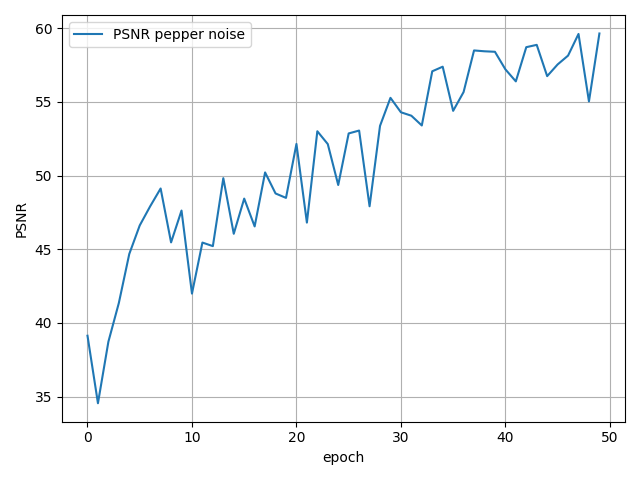
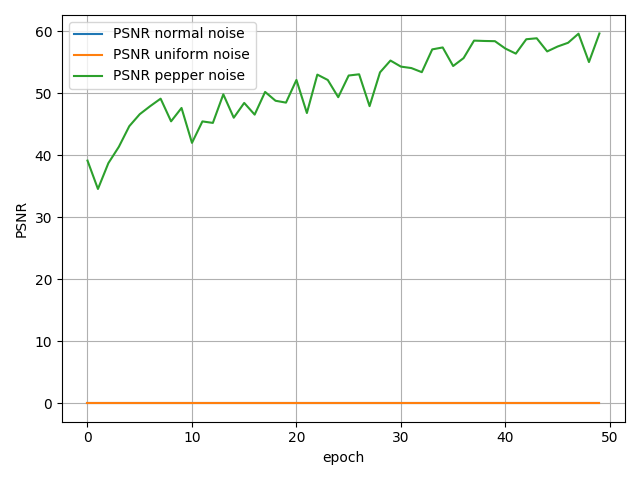
cleaned up code, switched to default normal noise

diff --git a/train.py b/train.py
@@ -47,7 +47,6 @@ def setup_gpus():
     return device_ids
 
 def psnr_of_batch(clean_imgs, denoised_imgs):
-    #clean_imgs = clean_imgs.data.cpu().numpy().astype(np.float32)
     clean_imgs = clean_imgs.data.numpy().astype(np.float32)
     denoised_imgs = denoised_imgs.data.cpu().numpy().astype(np.float32)
     batch_psnr = 0
@@ -66,26 +65,15 @@ def gen_noise(batch_size, noise_type):
         noise_levels = np.linspace(0,0.25, batch_size[0])
         for i, nl in enumerate(noise_levels):
             noise_mask = torch.FloatTensor(np.random.uniform(size=noise[0].shape) < nl )
-            #noise_mask = np.random.uniform(size=noise[0,0].shape) < nl 
-            #noise_mask = np.stack((noise_mask,noise_mask,noise_mask), axis=0)
             noise[i,:,:,:] = torch.FloatTensor(noise[0,:,:,:].shape).uniform_(0.0,1.0) * noise_mask
 
     elif noise_type == 'pepper':
         noise_levels = np.linspace(0,0.25, batch_size[0])
         for i, nl in enumerate(noise_levels):
-#            noise_salt = np.random.uniform(0.0,1.0, size=noise[0,0].shape)
-#            _, noise_salt = cv.threshold(noise_salt, (1-nl/2), 1.0, cv.THRESH_BINARY)
             noise_pepper = np.random.uniform(0.0,1.0, size=noise[0,0].shape)
             _, noise_pepper = cv.threshold(noise_pepper, (1-nl), -1.0, cv.THRESH_BINARY)
-#            salt_pepper = noise_salt + noise_pepper
 
-            #noise_salt = np.stack((noise_salt,noise_salt,noise_salt), axis=0)
-            #pepper_mask = np.random.uniform(size=noise_salt[0].shape) < 0.5 
-            #pepper_mask = np.stack((pepper_mask,pepper_mask,pepper_mask), axis=0)
-            #salt_pepper = noise_salt * pepper_mask
             noise[i,:,:,:] = torch.FloatTensor(noise_pepper)
-            #torch.FloatTensor(noise[0,:,:,:].shape).uniform_(0.0,1.0)
-            #_, noise[i,:,:,:] = cv.threshold(noise, (1-nl),1.0, cv.THRESH_BINARY)
 
     return noise
 
@@ -111,8 +99,7 @@ def main():
     noise_level = args.noise_level/255
     max_noise_level = 55/255
     #noise_types = np.array(['normal', 'uniform', 'pepper'])
-    #noise_types = np.array(['normal','uniform'])
-    noise_types = np.array(['pepper'])
+    noise_types = np.array(['normal'])
 
     # make sure data files exist
     assert os.path.exists(args.train_set), f'Cannot find training vectors file {args.train_set}'
@@ -174,11 +161,12 @@ def main():
     best_psnr_pepper = 0
     for epoch in range(args.epochs):
         print(f'Starting epoch {epoch+1} with learning rate {optimizer.param_groups[0]["lr"]}')
+
         model.train()
-        # iterate through batches of training examples
         epoch_train_loss = 0
         train_steps = 0
 
+        # iterate through batches of training examples
         for clean_imgs in tqdm(train_loader):
             model.zero_grad()
 
@@ -190,17 +178,8 @@ def main():
 
             noise_type = np.random.choice(noise_types)
             noise = gen_noise(clean_imgs.size(), noise_type)
-#            if noise_type == 'normal':
-#                for i, nl in enumerate(noise_levels):
-#                    noise[i,:,:,:] = torch.FloatTensor(noise[0,:,:,:].shape).normal_(mean=0, std=nl)
-#
-#            if noise_type == 'uniform':
-#                for i, nl in enumerate(noise_levels):
-#                    noise[i,:,:,:] = torch.FloatTensor(noise[0].shape).normal_(mean=0, std=nl)
-
 
             # pack input and target it into torch variable
-            #clean_imgs = Variable(data.cuda()) 
             noisy_imgs = Variable((clean_imgs + noise).cuda()) 
             noise = Variable(noise.cuda())
 
@@ -228,7 +207,6 @@ def main():
         epoch_psnr_pepper = 0
         num_pepper = 0
         val_steps = 0
-        #model.zero_grad()
         with torch.no_grad():
             for clean_imgs in tqdm(val_loader):
                 # generate additive white noise from gaussian distribution
@@ -241,7 +219,6 @@ def main():
 
 
                 # pack input and target it into torch variable
-                #clean_imgs = Variable(data.cuda()) 
                 noisy_imgs = Variable((clean_imgs + noise).cuda())
                 noise = Variable(noise.cuda())
 
@@ -279,6 +256,7 @@ def main():
 
         # reduce learning rate if validation has leveled off
         #scheduler.step(epoch_val_loss)
+
         # exponential decay of learning rate
         scheduler.step()
 
@@ -300,12 +278,8 @@ def main():
         writer.add_scalar('PSNR-pepper', epoch_psnr_pepper, epoch)
 
         # save if best model
-        #if epoch_psnr_pepper > best_psnr_pepper and np.isinf(epoch_psnr_pepper) == False:
         if epoch_val_loss < best_val_loss:
             print('Saving best model')
-            #best_psnr_normal = epoch_psnr_normal
-            #best_psnr_uniform = epoch_psnr_uniform
-            #best_psnr_pepper = epoch_psnr_pepper
             best_val_loss = epoch_val_loss
             torch.save(model, os.path.join(args.log_dir, 'best_model.pt'))
             pickle.dump(history, open(os.path.join(args.log_dir, 'best_model.npy'), 'wb'))
@@ -316,13 +290,7 @@ def main():
                 clean_pics = make_grid(clean_imgs, nrow=8, normalize=True, scale_each=True)
                 writer.add_image('clean images', clean_pics, epoch)
                 for noise_type in noise_types:
-                    #noise = gen_noise(clean_imgs.size(), noise_type)
-                    #noisy_imgs = Variable((clean_imgs + noise).cuda()).clamp(0.0,1.0)
-                    #preds = model(noisy_imgs)
-                    #denoised_imgs = torch.clamp(noisy_imgs-preds, 0.0, 1.0)
-                    #noisy_imgs = make_grid(noisy_imgs.data, nrow=8, normalize=True, scale_each=True)
                     denoised_imgs = make_grid(denoised_imgs.data, nrow=8, normalize=True, scale_each=True)
-                    #writer.add_image(f'{noise_type} noisy images', noisy_imgs, epoch)
                     writer.add_image(f'{noise_type} denoised images', denoised_imgs, epoch)
 
     # saving final model
@@ -334,3 +302,4 @@ def main():
 
 if __name__ == '__main__':
     sys.exit(main())
+

diff --git a/denoise.py b/denoise.py
@@ -12,7 +12,6 @@ from skimage.metrics import peak_signal_noise_ratio as psnr
 
 def add_noise(img, noise_type, noise_level):
     if noise_type == 'normal':
-        #noise_mask = np.random.uniform(size=img.size()) 
         noise = torch.FloatTensor(img.size()).normal_(mean=0, std=noise_level/255)
 
     elif noise_type == 'uniform':
@@ -40,13 +39,12 @@ def main():
 
     # normalize noise level
     noise_level = args.noise_level/255
-    #max_noise_level = 35/255
-    noise_sigma = [15,25,50]
-    noise_prob_uniform = [0.5, 1.0, 1.5]
-    noise_prob_pepper = [5, 10, 15]
+    noise_sigma = [15,25,50]            # standard deviation
+    noise_prob_uniform = [5, 10, 15]    # percent of pixels corrupted
+    noise_prob_pepper = [5, 10, 15]     # percent of pixels corrupted
     noise_levels = {'normal': noise_sigma, 'uniform': noise_prob_uniform, 'pepper': noise_prob_pepper}
     #noise_types = np.array(['normal', 'uniform', 'pepper'])
-    noise_types = np.array(['pepper'])
+    noise_types = np.array(['normal'])
 
     assert os.path.exists(args.img_dir), f'Image directory {args.img_dir} not found'
     assert os.path.exists(args.model_name), f'Model {args.model_name} not found'
@@ -58,16 +56,15 @@ def main():
     # load model params
     model_history = pickle.load(open(args.model_name.replace('.pt', '.npy'), 'rb'))
     num_channels = model_history['model']['num_channels']
-    #num_channels = 3
+
     # load model 
     model = torch.load(args.model_name)
     model.eval() 
 
     model_dir = os.path.dirname(args.model_name)
     out_dir = os.path.join(model_dir, args.out_dir)
-    # make sure output directory exists
-    os.makedirs(out_dir, exist_ok=True)
 
+    os.makedirs(out_dir, exist_ok=True)
 
     psnrs = dict.fromkeys(noise_types, None)
     for key in psnrs.keys():
@@ -82,8 +79,6 @@ def main():
             psnr_improvement = 0
             num_test_files = 0
             for f in sorted(glob(os.path.join(args.img_dir, '*.png'))):
-                #clean_img = np.einsum('ijk->kij', img.astype(np.float32)/255) 
-                    #clean_img = np.expand_dims(clean_img, axis=0)
                 img = cv.imread(f).astype(np.float32)[:,:,:num_channels]
                 clean_img = np.einsum('ijk->kij', img.astype(np.float32)/255) 
                 clean_img = np.expand_dims(clean_img, axis=0)
@@ -91,8 +86,6 @@ def main():
     
                 # prepare noisy image
                 noisy_img = add_noise(clean_img, noise_type, noise_levels[noise_type][i])
-                #noisy_images = images + noise.data.numpy()
-                #noise = torch.FloatTensor(clean_img.size()).normal_(mean=0, std=noise_level)
                 noisy_img = Variable(noisy_img.cuda())
                 denoised_img = noisy_img - model(torch.clamp(noisy_img,0.0,1.0))
     
@@ -119,10 +112,6 @@ def main():
 
             psnrs[noise_type][noise_level] = [test_psnr/num_test_files, psnr_improvement/num_test_files]    
 
-            #print(f'[{noise_type}:{noise_level}] Average PSNR of testset is {test_psnr/num_test_files}')
-            #print(f'[{noise_type}:{noise_level}] Average increase in PSNR of testset is {psnr_improvement/num_test_files}')
-
-    print(psnrs)
     for noise_type in noise_types:
         print(f'[{noise_type}]')
         for i in range(len(noise_sigma)):

diff --git a/plot_history.py b/plot_history.py
@@ -4,41 +4,46 @@ import pickle
 import matplotlib.pyplot as plt
 
 
-def plt_losses(train_loss, val_loss):
+def plt_losses(train_loss, val_loss, sav_dir):
 
+    plt.figure()
     plt.plot(train_loss, label='training loss', color='blue')
     plt.plot(val_loss, label='validation loss', color='red')
 
     plt.ylabel('loss')
     plt.xlabel('epoch')
 
+    plt.grid()
     plt.legend()
     plt.tight_layout()
 
+    plt.savefig(os.path.join(sav_dir, 'losses.png'))
     plt.show()
 
-def plt_psnrs(psnrs):
+def plt_psnrs(psnrs, sav_dir):
 
+    plt.figure()
     for key in psnrs.keys():
         plt.plot(psnrs[key], label=f'PSNR {key} noise')
 
     plt.ylabel('PSNR')
     plt.xlabel('epoch')
 
+    plt.grid()
     plt.legend()
     plt.tight_layout()
 
+    plt.savefig(os.path.join(sav_dir, 'psnrs.png'))
     plt.show()
 
 def main():
-    #history_file = sys.argv[1]
-    history_file = 'logs/best_model.npy'
-    print(history_file)
+    history_file = sys.argv[1]
+    print(f'Creating plots with history file {history_file}')
 
     data = pickle.load(open(history_file, 'rb'))
 
-    plt_losses(data['train'], data['val'])
-    plt_psnrs(data['psnr'])
+    plt_losses(data['train'], data['val'], os.path.dirname(history_file))
+    plt_psnrs(data['psnr'], os.path.dirname(history_file))
 
     return 0
 
